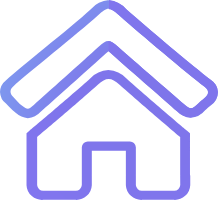
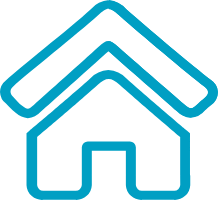
修改主色调并增加攻略页精选文章样式

Changed region(s): [[0.0, 0.0, 1.0, 1.0]]

diff --git a/pages/timetable/timetable.js b/pages/timetable/timetable.js
@@ -14,7 +14,7 @@ Page({
     allLessonsList: [],         //全部的课表信息(不包含教师姓名，上课周)
     wholeLessonList: [],        //完整的课程信息（含教师姓名，上课周）
     exerciseLesonList: [],      //实践课课程信息
-    icon_lessonUrl: '../../images/icons/part_lesson.png',
+    text: '本周',
     
   },
   globalData:{
@@ -25,6 +25,13 @@ Page({
     //判断用户是否登录过,如果没有登录则跳转登录页面。
     //const user = wx.getStorageSync(app.data.keyUserName)
     console.log("数据从本地获取");
+
+    wx.getSystemInfo({
+      success(res) {
+
+        console.log(res.windowHeight)
+      }
+    })
 
     this.getTimetableFromLocal();
     this.getExerciseLessonFromLocal();
@@ -355,13 +362,13 @@ Page({
     if (this.globalData.isShowAll == false) {
       this.globalData.isShowAll = true
       this.setData({
-        icon_lessonUrl: '../../images/icons/all_lesson.png'
+        text: '全部'
       });
       this.showTimetableByAll();
     } else {
       this.globalData.isShowAll = false
       this.setData({
-        icon_lessonUrl: '../../images/icons/part_lesson.png'
+        text: '本周'
       });
       this.showTimetableByCurrentWeek();
     }

diff --git a/pages/strategy/strategy.js b/pages/strategy/strategy.js
@@ -3,7 +3,50 @@ Page({
 
   data:{  
     organizationArray:[],  //组织机构
-    ilovelearnArray:[]   //我爱学习
+    ilovelearnArray:[],   //我爱学习
+    student:
+      [
+        {
+          icon: '/images/kjs.png',
+          src: '../timetable/timetable',
+          title: '课表'
+        },
+        {
+          icon: '/images/ck.png',
+          src: '../rooms/rooms',
+          title: "空教室"
+        },
+        {
+          icon: '/images/tsg.png',
+          src: '/pages/score/score-query',
+          title: "成绩"
+        },
+        {
+          icon: '/images/cet.png',
+          src: '../cet/cet',
+          title: "等级考试"
+        },
+        {
+          icon: '/images/kc.png',
+          src: '/pages/exam/exam',
+          title: "考试信息"
+        },
+        {
+          icon: '/images/ditu.png',
+          src: '/pages/map/map',
+          title: "地点查询"
+        },
+        {
+          icon: '/images/dianhua.png',
+          src: '/pages/phone/phone',
+          title: '电话黄页'
+        },
+        {
+          icon: '/images/qa.png',
+          src: '/pages/qa/qa',
+          title: '一问一答'
+        }
+      ]
   },
 
   onLoad: function (options) {

diff --git a/pages/qa/qa.js b/pages/qa/qa.js
@@ -8,13 +8,9 @@ Page({
     isfrist: 1,
     moreHidden: 'none',
     msg: '其余数据正在收集中...',
-  
-
 
   },
   loadData: function (lastid) {
-
-
     var limit = 50
     var that = this
     console.log('app.data.url：' + app.data.url)
@@ -63,6 +59,26 @@ Page({
       }
     })
   },
+
+
+
+  widgetsToggle: function (e) {
+    var id = e.currentTarget.id, qaList = this.data.qaList;
+    for (var i = 0, len = qaList.length; i < len; ++i) {
+      if (qaList[i].id == id) {
+        qaList[i].open = !qaList[i].open;
+      } else {
+        qaList[i].open = qaList[i].open;
+      }
+    }
+    this.setData({
+      qaList: qaList
+    });
+  },
+
+
+
+
   loadMore: function (event) {
     var id = event.currentTarget.dataset.lastid
     var isfrist = event.currentTarget.dataset.isfrist
@@ -86,6 +102,7 @@ Page({
     this.loadData(0);
 
   },
+
 
   toastChange: function () {
     this.setData({ toastHidden: true })

diff --git a/app.js b/app.js
@@ -43,11 +43,19 @@ App({
     this.globalData.userpassword = userpassword
     console.log(username,userpassword)
 
+    wx.getSystemInfo({
+      success(res) {
+        
+        console.log(res.windowHeight)
+      }
+    })
+
     //调用API从本地缓存中获取数据
     var logs = wx.getStorageSync('logs') || []
     logs.unshift(Date.now())
     wx.setStorageSync('logs', logs)
   },
+
   getUserInfo: function (cb) {
     var that = this
     if (this.globalData.userInfo) {

diff --git a/pages/index/index.js b/pages/index/index.js
@@ -30,7 +30,7 @@ Page({
           title: "成绩"
         },
         {
-          icon: '/images/eng.png',
+          icon: '/images/cet.png',
           src: '../cet/cet',
           title: "等级考试"
         },
